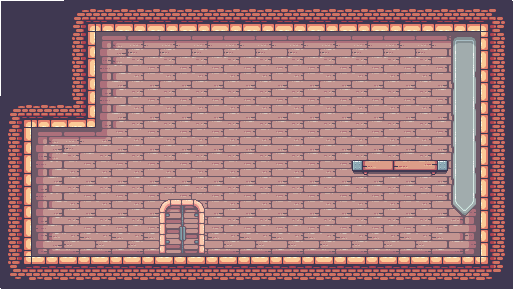
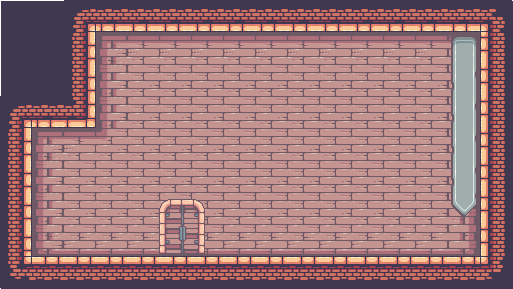
add platform class, update function to extract data from tiled json

Changed region(s): [[0.6862, 0.5294, 0.8733, 0.6228]]

diff --git a/js/data/boxes.js b/js/data/boxes.js
@@ -12,24 +12,34 @@ function loadBoxesSync(level) {
 
     if (request.status === 200) {
         const jsonData = JSON.parse(request.responseText);
+        let platformsData = undefined
 
         const boxesLayer = jsonData.layers.find(layer => layer.name === "boxes");
 
         const boxesData = boxesLayer.objects.map(obj => ({ x: obj.x, y: obj.y }))
 
-        return transformDataBox(boxesData)
+        const platformLayer = jsonData.layers.find(layer => layer.name === "platform");
+
+        if (platformLayer) {
+            platformsData = platformLayer.objects.map(obj => ({ x: obj.x, y: obj.y }))
+        }
+
+        return { boxes: transformDataBox(boxesData), platforms: platformsData ? transformDataBox(platformsData) : [] }
     } else {
         console.error("Failed to load JSON");
         return [];
     }
 }
 
-const boxes_level_1 = loadBoxesSync(1)
-const boxes_level_2 = loadBoxesSync(2)
-const boxes_level_3 = loadBoxesSync(3)
-const boxes_level_4 = loadBoxesSync(4)
-const boxes_level_5 = loadBoxesSync(5)
-const boxes_level_6 = loadBoxesSync(6)
-const boxes_level_7 = loadBoxesSync(7)
-const boxes_level_8 = loadBoxesSync(8)
+const boxes_level_1 = loadBoxesSync(1).boxes
+const boxes_level_2 = loadBoxesSync(2).boxes
+const boxes_level_3 = loadBoxesSync(3).boxes
+const boxes_level_4 = loadBoxesSync(4).boxes
+const boxes_level_5 = loadBoxesSync(5).boxes
+const boxes_level_6 = loadBoxesSync(6).boxes
+const boxes_level_7 = loadBoxesSync(7).boxes
+
+const boxes_level_8 = loadBoxesSync(8).boxes
+const platforms_level_8 = loadBoxesSync(8).platforms
+
 const boxes_level_9 = loadBoxesSync(9)

diff --git a/index.js b/index.js
@@ -33,7 +33,8 @@ const config = {
         boxesPositions: boxes_level_7
     },
     8: {
-        boxesPositions: boxes_level_8
+        boxesPositions: boxes_level_8,
+        platformPositions: platforms_level_8
     },
     9: {
         boxesPositions: boxes_level_9
@@ -266,6 +267,9 @@ const diamond = new Diamond({
 
 function createBoxes(positions) {
     return positions.map(position => new Box({ position: { x: position[0], y: position[1] } }))
+}
+function createPlatforms(positions) {
+    return positions.map(position => new Platform({ position: { x: position[0], y: position[1] } }))
 }
 
 let level = 8
@@ -602,13 +606,14 @@ let levels = {
     },
     8: {
         init: () => {
-            const { boxesPositions } = config[8]
+            const { boxesPositions, platformPositions } = config[8]
 
             boxes = createBoxes(boxesPositions)
+            platforms = createPlatforms(platformPositions)
             parsedCollisions = collisionsLevel8.parse2D()
             collisionBlocks = parsedCollisions.createObjectsFrom2D()
 
-            collisionBlocks = collisionBlocks.concat(boxes.flatMap(box => box.collisionBlocks));
+            collisionBlocks = collisionBlocks.concat(boxes.flatMap(box => box.collisionBlocks),platforms.flatMap(platform => platform.collisionBlocks));
 
             player.collisionBlocks = collisionBlocks
             enemy.collisionBlocks = collisionBlocks
@@ -742,6 +747,9 @@ function animate() {
 
     boxes.forEach(box => {
         box.draw(2)
+    })
+    platforms.forEach(platform => {
+        platform.draw(2)
     })
 
     enemy.draw(2)

diff --git a/js/classes/Platform.js b/js/classes/Platform.js
@@ -1,0 +1,8 @@
+class Platform extends Sprite {
+    constructor({ position, imageSrc = './Sprites/14-TileSets/platform.png', frameRate, animations, loop }) {
+        super({ position, imageSrc, frameRate, animations, loop })
+
+        this.collisionBlocks = [new CollisionBlock({ width: 104 * 2 - 14, height: 16 * 2 - 10, position: { x: position.x + 4, y: position.y + 11 } })]
+    }
+}
+

diff --git a/index.html b/index.html
@@ -28,5 +28,6 @@
 <script src="js/classes/DialogBox.js"></script>
 <script src="js/classes/Diamond.js"></script>
 <script src="js/classes/Box.js"></script>
+<script src="js/classes/Platform.js"></script>
 <script src="js/eventListeners.js"></script>
 <script src="index.js"></script>
